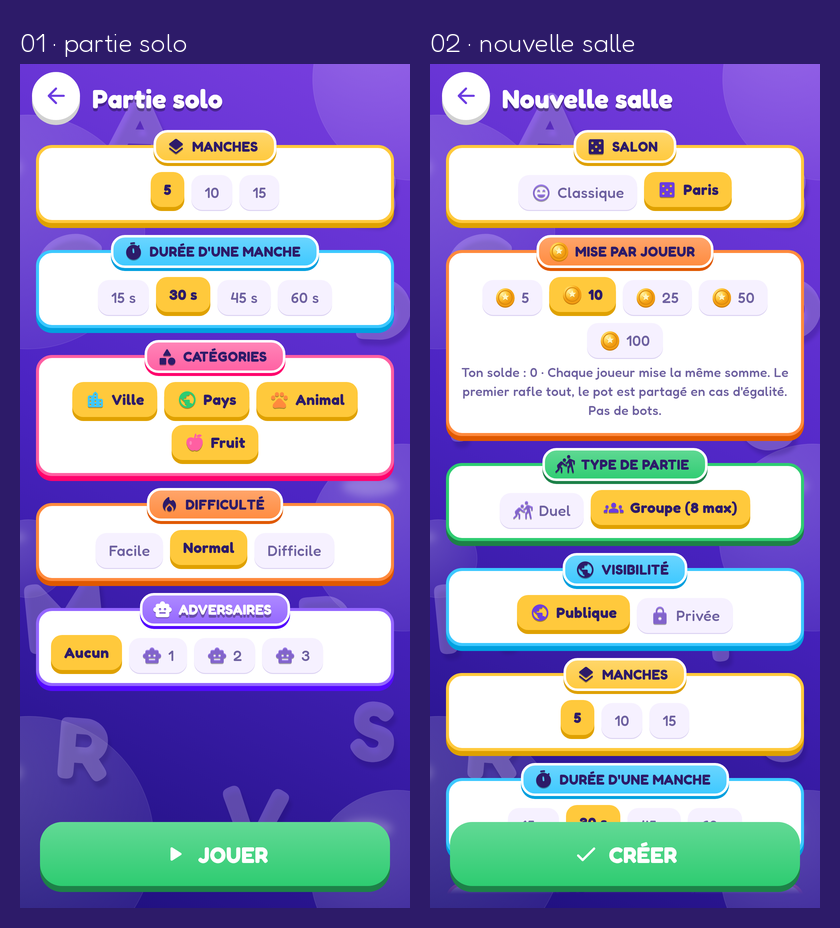
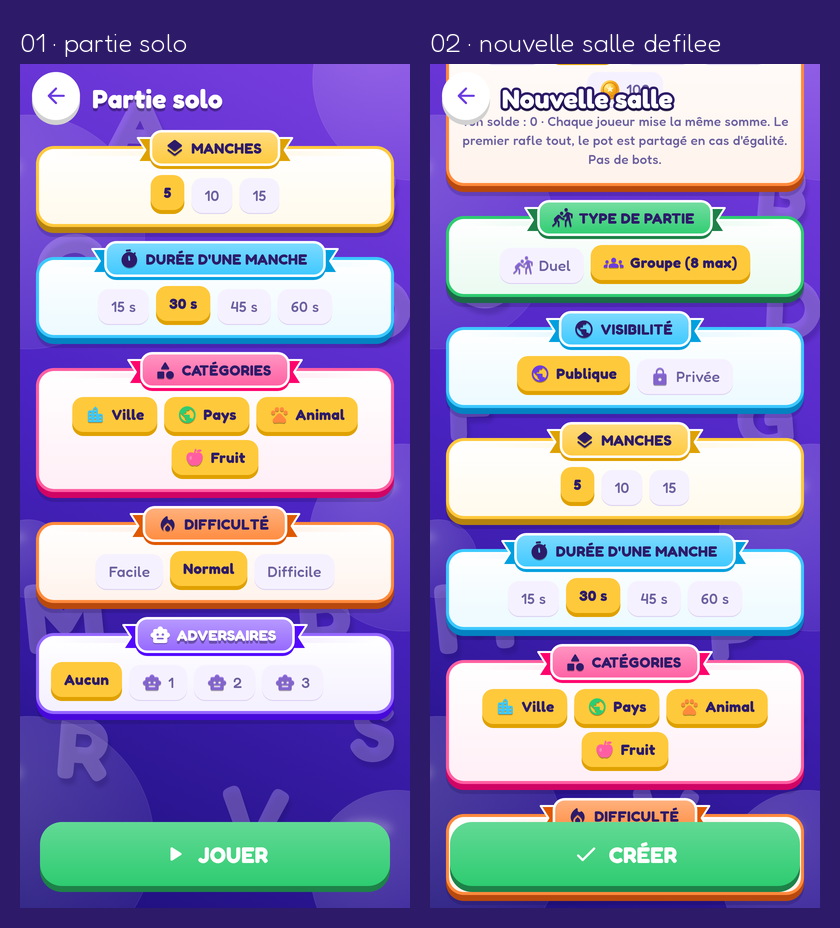
Fully transparent header/footer, outlined titles, ribbon option boxes

diff --git a/mobile/lib/features/game/widgets/option_section.dart b/mobile/lib/features/game/widgets/option_section.dart
@@ -5,9 +5,9 @@ import '../../../core/theme/app_colors.dart';
 import '../../../core/theme/app_theme.dart';
 import '../../../core/widgets/game_icon.dart';
 
-/// Boîte de réglage façon jeu : panneau blanc à bordure colorée en relief,
-/// avec un bandeau titre centré à cheval sur le bord du haut (icône animée +
-/// titre). Les options sont centrées dessous.
+/// Boîte de réglage façon jeu : panneau à bordure colorée en relief, reflet
+/// brillant en haut, et ruban titre centré à cheval sur le bord (pans repliés
+/// de chaque côté, icône animée + titre). Les options sont centrées dessous.
 class OptionSection extends StatelessWidget {
   const OptionSection({
     super.key,
@@ -23,12 +23,12 @@ class OptionSection extends StatelessWidget {
   final String title;
   final GameIconKind icon;
 
-  /// Couleur de la bordure et du bandeau.
+  /// Couleur de la bordure et du ruban.
   final Color color;
   final Widget child;
 
-  /// Hauteur du bandeau qui dépasse au-dessus de la boîte.
-  static const _bannerOverlap = 15.0;
+  /// Hauteur du ruban qui dépasse au-dessus de la boîte.
+  static const _bannerOverlap = 16.0;
 
   @override
   Widget build(BuildContext context) {
@@ -36,8 +36,9 @@ class OptionSection extends StatelessWidget {
     // Texte foncé sur les couleurs claires (jaune, bleu…) pour rester lisible.
     final light = color.computeLuminance() > 0.3;
     final ink = light ? AppColors.ink : AppColors.white;
+
     return Padding(
-      padding: const EdgeInsets.only(bottom: 12),
+      padding: const EdgeInsets.only(bottom: 14),
       child: BounceIn(
         delay: Duration(milliseconds: 60 * index),
         from: 0.85,
@@ -46,55 +47,179 @@ class OptionSection extends StatelessWidget {
           clipBehavior: Clip.none,
           alignment: Alignment.topCenter,
           children: [
+            // Panneau : relief coloré dessous, fond légèrement teinté vers le
+            // bas, liseré blanc intérieur.
             Container(
               width: double.infinity,
               margin: const EdgeInsets.only(top: _bannerOverlap),
-              padding: const EdgeInsets.fromLTRB(12, 24, 12, 13),
               decoration: BoxDecoration(
-                color: AppColors.white,
-                borderRadius: BorderRadius.circular(16),
-                border: Border.all(color: color, width: 3),
+                borderRadius: BorderRadius.circular(18),
+                color: color,
                 boxShadow: [
-                  BoxShadow(color: depth, offset: const Offset(0, 5)),
-                ],
-              ),
-              child: Center(child: child),
-            ),
-            // Bandeau titre.
-            Container(
-              padding: const EdgeInsets.fromLTRB(10, 4, 16, 4),
-              decoration: BoxDecoration(
-                borderRadius: BorderRadius.circular(14),
-                border: Border.all(color: AppColors.white, width: 2.5),
-                gradient: LinearGradient(
-                  begin: Alignment.topCenter,
-                  end: Alignment.bottomCenter,
-                  colors: [Color.lerp(color, AppColors.white, 0.25)!, color],
-                ),
-                boxShadow: [
-                  BoxShadow(color: depth, offset: const Offset(0, 3)),
-                ],
-              ),
-              child: Row(
-                mainAxisSize: MainAxisSize.min,
-                children: [
-                  GameIcon(icon, size: 20, color: ink),
-                  const SizedBox(width: 6),
-                  Text(
-                    title.toUpperCase(),
-                    style: fredoka(
-                      size: 14,
-                      weight: FontWeight.w700,
-                      color: ink,
-                      shadows: light ? null : textShadow,
-                    ),
+                  BoxShadow(color: depth, offset: const Offset(0, 6)),
+                  const BoxShadow(
+                    color: Color(0x33140744),
+                    offset: Offset(0, 10),
+                    blurRadius: 12,
                   ),
                 ],
               ),
+              padding: const EdgeInsets.all(3),
+              child: Container(
+                padding: const EdgeInsets.fromLTRB(12, 26, 12, 14),
+                decoration: BoxDecoration(
+                  borderRadius: BorderRadius.circular(15),
+                  gradient: LinearGradient(
+                    begin: Alignment.topCenter,
+                    end: Alignment.bottomCenter,
+                    colors: [
+                      AppColors.white,
+                      Color.lerp(AppColors.white, color, 0.10)!,
+                    ],
+                  ),
+                ),
+                child: Center(child: child),
+              ),
+            ),
+            // Reflet brillant le long du bord haut.
+            Positioned(
+              top: _bannerOverlap + 5,
+              left: 14,
+              right: 14,
+              child: IgnorePointer(
+                child: Container(
+                  height: 5,
+                  decoration: BoxDecoration(
+                    borderRadius: BorderRadius.circular(3),
+                    gradient: LinearGradient(
+                      colors: [
+                        color.withValues(alpha: 0),
+                        color.withValues(alpha: 0.18),
+                        color.withValues(alpha: 0),
+                      ],
+                    ),
+                  ),
+                ),
+              ),
+            ),
+            _Ribbon(
+              color: color,
+              depth: depth,
+              ink: ink,
+              light: light,
+              icon: icon,
+              title: title,
             ),
           ],
         ),
       ),
     );
   }
+}
+
+/// Ruban titre avec ses pans repliés derrière, comme une bannière de jeu.
+class _Ribbon extends StatelessWidget {
+  const _Ribbon({
+    required this.color,
+    required this.depth,
+    required this.ink,
+    required this.light,
+    required this.icon,
+    required this.title,
+  });
+
+  final Color color;
+  final Color depth;
+  final Color ink;
+  final bool light;
+  final GameIconKind icon;
+  final String title;
+
+  @override
+  Widget build(BuildContext context) {
+    Widget tail(bool left) => CustomPaint(
+      size: const Size(22, 24),
+      painter: _TailPainter(depth, left: left),
+    );
+
+    // Les pans sont dessinés avant le ruban : ils passent derrière.
+    return Stack(
+      clipBehavior: Clip.none,
+      children: [
+        Positioned(left: -12, top: 8, child: tail(true)),
+        Positioned(right: -12, top: 8, child: tail(false)),
+        Container(
+          padding: const EdgeInsets.fromLTRB(12, 5, 16, 5),
+          decoration: BoxDecoration(
+            borderRadius: BorderRadius.circular(12),
+            border: Border.all(color: AppColors.white, width: 2.5),
+            gradient: LinearGradient(
+              begin: Alignment.topCenter,
+              end: Alignment.bottomCenter,
+              colors: [Color.lerp(color, AppColors.white, 0.35)!, color],
+            ),
+            boxShadow: [BoxShadow(color: depth, offset: const Offset(0, 3))],
+          ),
+          child: Row(
+            mainAxisSize: MainAxisSize.min,
+            children: [
+              GameIcon(icon, size: 21, color: ink),
+              const SizedBox(width: 6),
+              Text(
+                title.toUpperCase(),
+                style: fredoka(
+                  size: 15,
+                  weight: FontWeight.w700,
+                  color: ink,
+                  shadows: light ? null : textShadow,
+                ),
+              ),
+            ],
+          ),
+        ),
+      ],
+    );
+  }
+}
+
+/// Pan de ruban en queue d'aronde, plus sombre, qui passe derrière le ruban.
+class _TailPainter extends CustomPainter {
+  _TailPainter(this.color, {required this.left});
+
+  final Color color;
+  final bool left;
+
+  @override
+  void paint(Canvas canvas, Size size) {
+    final w = size.width;
+    final h = size.height;
+    final path = left
+        ? (Path()
+            ..moveTo(w, 0)
+            ..lineTo(0, 0)
+            ..lineTo(w * 0.35, h / 2)
+            ..lineTo(0, h)
+            ..lineTo(w, h)
+            ..close())
+        : (Path()
+            ..moveTo(0, 0)
+            ..lineTo(w, 0)
+            ..lineTo(w * 0.65, h / 2)
+            ..lineTo(w, h)
+            ..lineTo(0, h)
+            ..close());
+    canvas.drawPath(path, Paint()..color = color);
+    canvas.drawPath(
+      path,
+      Paint()
+        ..color = AppColors.white
+        ..style = PaintingStyle.stroke
+        ..strokeWidth = 2
+        ..strokeJoin = StrokeJoin.round,
+    );
+  }
+
+  @override
+  bool shouldRepaint(_TailPainter oldDelegate) =>
+      oldDelegate.color != color || oldDelegate.left != left;
 }

diff --git a/mobile/lib/core/widgets/floating_bars_layout.dart b/mobile/lib/core/widgets/floating_bars_layout.dart
@@ -1,7 +1,7 @@
 import 'package:flutter/material.dart';
 
-/// Contenu défilant qui passe sous un en-tête et un pied de page transparents,
-/// en s'estompant aux bords, comme les menus des jeux.
+/// Contenu défilant qui passe sous un en-tête et un pied de page entièrement
+/// transparents (pas de fondu ni de bandeau), comme les menus des jeux.
 class FloatingBarsLayout extends StatelessWidget {
   const FloatingBarsLayout({
     super.key,
@@ -26,36 +26,9 @@ class FloatingBarsLayout extends StatelessWidget {
     return Stack(
       children: [
         Positioned.fill(
-          child: LayoutBuilder(
-            builder: (context, constraints) {
-              final height = constraints.maxHeight;
-              return ShaderMask(
-                blendMode: BlendMode.dstIn,
-                shaderCallback: (rect) => LinearGradient(
-                  begin: Alignment.topCenter,
-                  end: Alignment.bottomCenter,
-                  colors: const [
-                    Colors.transparent,
-                    Colors.black,
-                    Colors.black,
-                    Colors.transparent,
-                  ],
-                  stops: [
-                    (headerHeight * 0.55 / height).clamp(0.0, 1.0),
-                    (headerHeight * 0.95 / height).clamp(0.0, 1.0),
-                    (1 - bottom * 0.55 / height).clamp(0.0, 1.0),
-                    (1 - bottom * 0.15 / height).clamp(0.0, 1.0),
-                  ],
-                ).createShader(rect),
-                child: ListView(
-                  padding: padding.copyWith(
-                    top: headerHeight,
-                    bottom: bottom + 8,
-                  ),
-                  children: children,
-                ),
-              );
-            },
+          child: ListView(
+            padding: padding.copyWith(top: headerHeight, bottom: bottom + 8),
+            children: children,
           ),
         ),
         Positioned(top: 0, left: 0, right: 0, child: header),

diff --git a/mobile/lib/features/online/widgets/online_header.dart b/mobile/lib/features/online/widgets/online_header.dart
@@ -25,16 +25,36 @@ class OnlineHeader extends StatelessWidget {
         children: [
           RoundIconButton(icon: Icons.arrow_back_rounded, onPressed: onBack),
           const SizedBox(width: 12),
+          // Titre blanc cerné de violet foncé, comme dans les jeux : il reste
+          // lisible quand le contenu défile dessous.
           Expanded(
-            child: Text(
-              title,
-              overflow: TextOverflow.ellipsis,
-              style: fredoka(
-                size: 26,
-                weight: FontWeight.w700,
-                color: AppColors.white,
-                shadows: textShadow,
-              ),
+            child: Stack(
+              children: [
+                Text(
+                  title,
+                  maxLines: 1,
+                  overflow: TextOverflow.ellipsis,
+                  style: fredoka(size: 26, weight: FontWeight.w700).copyWith(
+                    color: null,
+                    foreground: Paint()
+                      ..style = PaintingStyle.stroke
+                      ..strokeWidth = 5
+                      ..strokeJoin = StrokeJoin.round
+                      ..color = AppColors.ink,
+                  ),
+                ),
+                Text(
+                  title,
+                  maxLines: 1,
+                  overflow: TextOverflow.ellipsis,
+                  style: fredoka(
+                    size: 26,
+                    weight: FontWeight.w700,
+                    color: AppColors.white,
+                    shadows: textShadow,
+                  ),
+                ),
+              ],
             ),
           ),
           ?trailing,

diff --git a/docs/DECISIONS.md b/docs/DECISIONS.md
@@ -54,3 +54,4 @@ Décisions prises après le cahier des charges ([CAHIER_DES_CHARGES.md](CAHIER_D
 | 48 | Argent réel | Modèle « pièces achetables, jamais retirables » : achat de packs de pièces en vrai argent via Google Play Billing / achats intégrés Apple (obligatoires pour les biens numériques), achats vérifiés côté serveur. Aucun retrait, aucune conversion en argent ou cartes cadeaux, aucun transfert entre joueurs ; les pièces n'ont pas de valeur monétaire (à écrire dans les CGU). Classification d'âge à déclarer avec « jeu d'argent simulé ». Le retrait d'argent (jeu d'argent réel) est écarté : licences par pays, KYC, 18+. |
 | 49 | Boutique de pièces | 4 packs consommables (`coins_100`, `coins_550`, `coins_1200`, `coins_2500`), prix fixés dans les stores et affichés dans la monnaie du joueur. Achat par `in_app_purchase` ; le serveur vérifie chaque achat auprès de Google (API Play Developer, compte de service) ou d'Apple (App Store Server API, repli sandbox), crédite une seule fois par jeton (`coin_purchases`), puis l'appli consomme/termine l'achat. Pas de consommation automatique : un achat payé mais pas encore crédité est repris au lancement suivant. Accès par le compteur de pièces (bouton +) et depuis « pas assez de pièces ». Mise en route : `docs/BOUTIQUE.md`. |
 | 50 | Boîtes de réglage « jeu » | Chaque section des écrans Partie solo et Nouvelle salle est une boîte à bordure colorée en relief, avec un bandeau titre centré à cheval sur le bord du haut (icône animée + titre en majuscules) et ses options centrées. Une couleur par section ; texte du bandeau foncé sur les couleurs claires (jaune, bleu, vert, orange, rose), blanc seulement sur le violet. Réglages : le texte des crédits musicaux est remplacé par un lien discret « Crédits » qui ouvre une fenêtre (mention exigée par la licence). |
+| 51 | En-tête et pied vraiment transparents | Plus de fondu aux bords des listes (il donnait l'impression de bandeaux opaques) : le contenu défile net sous le bouton retour et le bouton du bas. Le titre de l'écran est cerné de violet foncé pour rester lisible quand une boîte passe dessous. Boîtes enrichies : ruban titre à pans repliés, double relief (bord coloré + ombre), fond légèrement teinté de la couleur de la boîte. |
